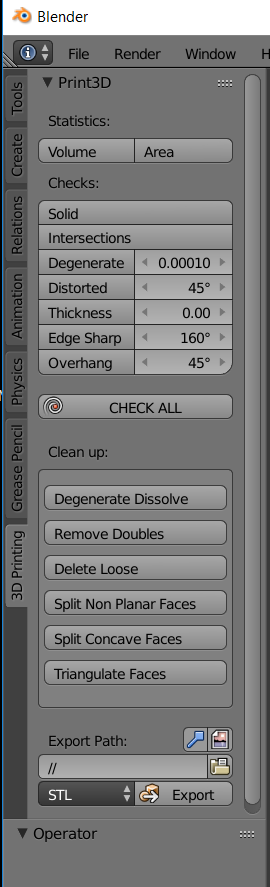
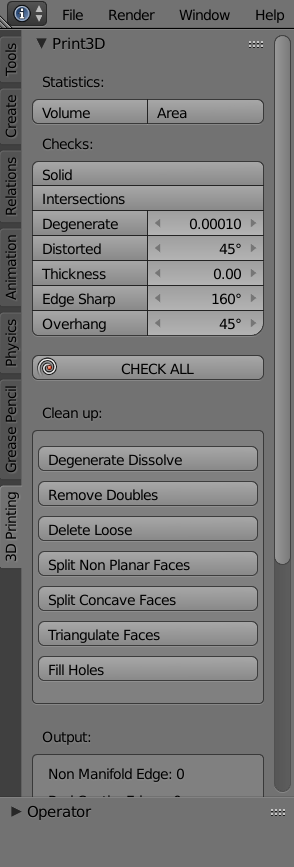
added fill holes functionality; updated readme

diff --git a/operators.py b/operators.py
@@ -630,6 +630,51 @@ class Print3DCleanTriangulateFaces(Operator):
         return {'FINISHED'}
 
 
+class Print3DCleanHoles(Operator):
+    """Fill in holes (boundary edge loops)"""
+    bl_idname = "mesh.print3d_clean_holes"
+    bl_label = "Fill Holes"
+    bl_options = {'REGISTER', 'UNDO'}
+
+    sides = bpy.props.IntProperty(
+        name="Sides",
+        description="Number of sides in hole required to fill (zero fills all holes)",
+        default=4,
+        step=1
+    )
+
+    def execute(self, context):
+        self.context = context
+        mode_orig = context.mode
+
+        setup_environment()
+
+        bm_key_orig = elem_count(context)
+
+        self.fill_holes(self.sides)
+
+        bm_key = elem_count(context)
+
+        if mode_orig != 'EDIT_MESH':
+            bpy.ops.object.mode_set(mode='OBJECT')
+
+        self.report(
+            {'INFO'},
+            "Modified Verts:%+d, Edges:%+d, Faces:%+d" %
+            (bm_key[0] - bm_key_orig[0],
+             bm_key[1] - bm_key_orig[1],
+             bm_key[2] - bm_key_orig[2]
+             ))
+
+        return {'FINISHED'}
+
+    @staticmethod
+    def fill_holes(sides):
+        """fill in holes (boundary edge loops)"""
+        bpy.ops.mesh.select_all(action='SELECT')
+        bpy.ops.mesh.fill_holes(sides=sides)
+
+
 # -------------
 # Select Report
 # ... helper function for info UI
@@ -678,118 +723,6 @@ class Print3DSelectReport(Operator):
         #~ bpy.ops.view3d.view_selected(use_all_regions=False)
 
         return {'FINISHED'}
-
-
-# -----------
-# Scale to...
-
-# def _scale(scale, report=None, report_suffix=""):
-#     if scale != 1.0:
-#         bpy.ops.transform.resize(value=(scale,) * 3,
-#                                  mirror=False, proportional='DISABLED',
-#                                  snap=False,
-#                                  texture_space=False)
-#     if report is not None:
-# report({'INFO'}, "Scaled by %s%s" % (clean_float("%.6f" % scale),
-# report_suffix))
-
-
-# class Print3DScaleToVolume(Operator):
-#     """Scale edit-mesh or selected-objects to a set volume"""
-#     bl_idname = "mesh.print3d_scale_to_volume"
-#     bl_label = "Scale to Volume"
-#     bl_options = {'REGISTER', 'UNDO'}
-
-#     volume_init = FloatProperty(
-#             options={'HIDDEN'},
-#             )
-#     volume = FloatProperty(
-#             name="Volume",
-#             unit='VOLUME',
-#             min=0.0, max=100000.0,
-#             )
-
-#     def execute(self, context):
-#         import math
-#         scale = math.pow(self.volume, 1 / 3) / math.pow(self.volume_init, 1 / 3)
-#         self.report({'INFO'}, "Scaled by %s" % clean_float("%.6f" % scale))
-#         _scale(scale, self.report)
-#         return {'FINISHED'}
-
-#     def invoke(self, context, event):
-
-#         def calc_volume(obj):
-#             bm = mesh_helpers.bmesh_copy_from_object(obj, apply_modifiers=True)
-#             volume = bm.calc_volume(signed=True)
-#             bm.free()
-#             return volume
-
-#         if context.mode == 'EDIT_MESH':
-#             volume = calc_volume(context.edit_object)
-#         else:
-#             volume = sum(calc_volume(obj) for obj in context.selected_editable_objects
-#                          if obj.type == 'MESH')
-
-#         if volume == 0.0:
-#             self.report({'WARNING'}, "Object has zero volume")
-#             return {'CANCELLED'}
-
-#         self.volume_init = self.volume = abs(volume)
-
-#         wm = context.window_manager
-#         return wm.invoke_props_dialog(self)
-
-
-# class Print3DScaleToBounds(Operator):
-#     """Scale edit-mesh or selected-objects to fit within a maximum length"""
-#     bl_idname = "mesh.print3d_scale_to_bounds"
-#     bl_label = "Scale to Bounds"
-#     bl_options = {'REGISTER', 'UNDO'}
-
-#     length_init = FloatProperty(
-#             options={'HIDDEN'},
-#             )
-#     axis_init = IntProperty(
-#             options={'HIDDEN'},
-#             )
-#     length = FloatProperty(
-#             name="Length Limit",
-#             unit='LENGTH',
-#             min=0.0, max=100000.0,
-#             )
-
-#     def execute(self, context):
-#         scale = self.length / self.length_init
-#         _scale(scale,
-#                report=self.report,
-#                report_suffix=", Clamping %s-Axis" % "XYZ"[self.axis_init])
-#         return {'FINISHED'}
-
-#     def invoke(self, context, event):
-#         from mathutils import Vector
-
-#         def calc_length(vecs):
-# return max(((max(v[i] for v in vecs) - min(v[i] for v in vecs)), i) for
-# i in range(3))
-
-#         if context.mode == 'EDIT_MESH':
-#             length, axis = calc_length([Vector(v) * obj.matrix_world
-#                                         for obj in [context.edit_object]
-#                                         for v in obj.bound_box])
-#         else:
-#             length, axis = calc_length([Vector(v) * obj.matrix_world
-#                                         for obj in context.selected_editable_objects
-# if obj.type == 'MESH' for v in obj.bound_box])
-
-#         if length == 0.0:
-#             self.report({'WARNING'}, "Object has zero bounds")
-#             return {'CANCELLED'}
-
-#         self.length_init = self.length = length
-#         self.axis_init = axis
-
-#         wm = context.window_manager
-#         return wm.invoke_props_dialog(self)
 
 
 # ------

diff --git a/__init__.py b/__init__.py
@@ -23,7 +23,7 @@ bl_info = {
     "description": "Utilities for 3D printing with basic Mesh Clean Up "
                    "based on '3D Print Toolbox' by Campbell Barton",
     "author": "Agnieszka Pas",
-    "version": (1, 0),
+    "version": (1, 1),
     "blender": (2, 66, 0),
     "location": "3D View > Toolbox",
     "warning": "",
@@ -172,22 +172,15 @@ classes = (
     operators.Print3DCheckOverhang,
     operators.Print3DCheckAll,
 
-    # operators.Print3DCleanIsolated,
-    # operators.Print3DCleanDistorted,
-    # operators.Print3DCleanThin,
-    # operators.Print3DCleanNonManifold,
-
     operators.Print3DCleanDegenerates,
     operators.Print3DCleanLoose,
     operators.Print3DCleanDoubles,
     operators.Print3DCleanNonPlanars,
     operators.Print3DCleanConcave,
     operators.Print3DCleanTriangulateFaces,
+    operators.Print3DCleanHoles,
 
     operators.Print3DSelectReport,
-
-    # operators.Print3DScaleToVolume,
-    # operators.Print3DScaleToBounds,
 
     operators.Print3DExport,
 

diff --git a/ui.py b/ui.py
@@ -129,6 +129,8 @@ class Print3DToolBar:
         col = box.column()
         col.operator("mesh.print3d_clean_triangulates",
                      text="Triangulate Faces")
+        col = box.column()
+        col.operator("mesh.print3d_clean_holes", text="Fill Holes")
         box.separator()
         layout.separator()
 
